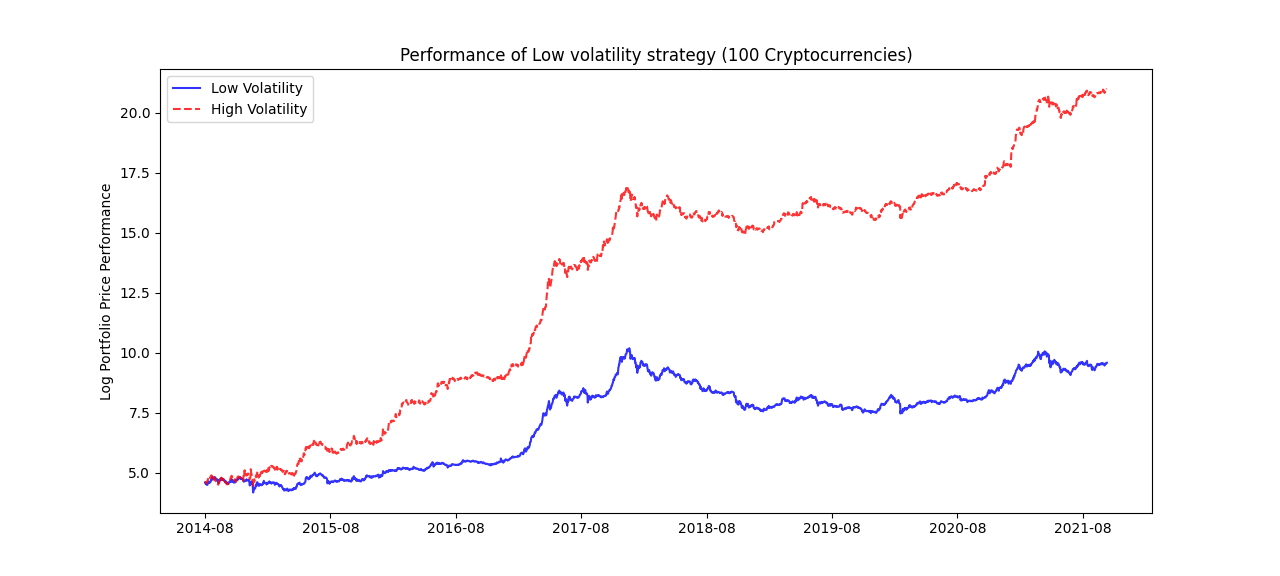
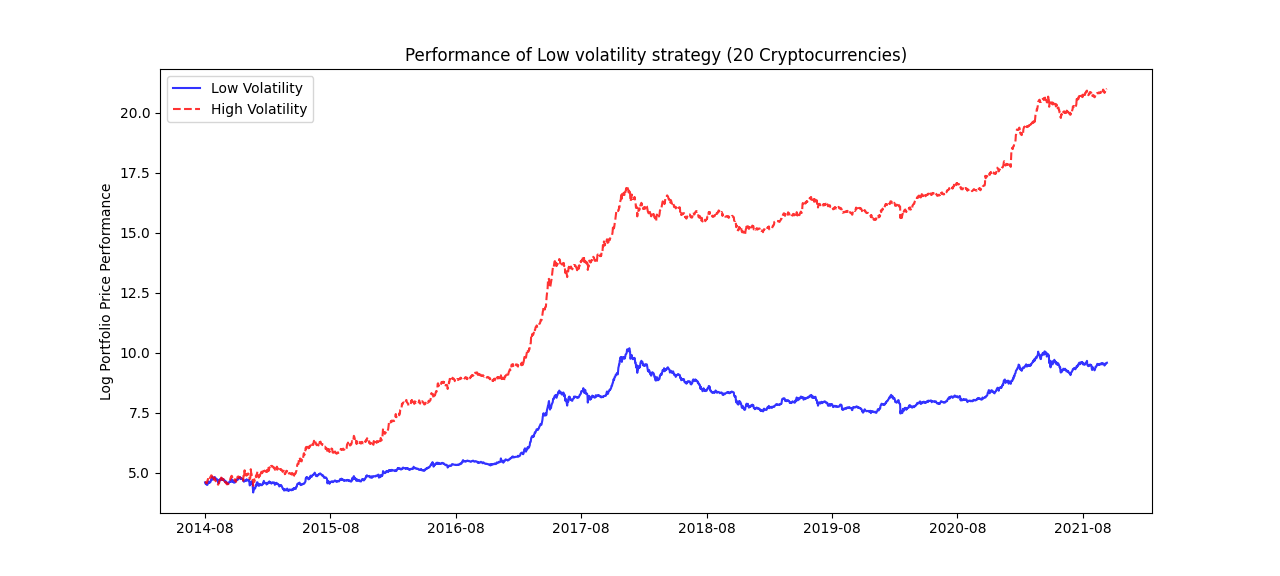
final commit

Changed region(s): [[0.3125, 0.0625, 0.7188, 0.125]]

diff --git a/graph_maker.py b/graph_maker.py
@@ -147,11 +147,14 @@ plt.plot(yHV, "r--", alpha=0.8, label = "High Volatility")
 Xs = X[::K]
 xlabels = pd.to_datetime(X).strftime("%Y-%m")
 xlabels = xlabels[::K]
-plt.title("Performance of Low volatility strategy (100 Cryptocurrencies)")
+plt.title("Performance of Low volatility strategy (20 Cryptocurrencies)")
 plt.xticks(Xs, xlabels)
 plt.legend(loc='upper left')
 plt.ylabel('Log Portfolio Price Performance')
 plt.savefig('graphs/low_vol_20.png', format="png")
+
+## Low / High Volatility graphs ##
+
 
 ## Minimum Variance ##
 

diff --git a/Readme.md b/Readme.md
@@ -128,21 +128,6 @@ python3 dashboard.py
 │                         
 ```
 
-
-## Ideas
-
-- Li et Yi, Toward a Factor Structure in Crypto Asset Returns => seems to have a low vol anomaly
-- https://coinmarketexpert.com/how-we-developed-a-cryptocurrency-portfolio-that-beats-bitcoin/
-- https://www.econstor.eu/bitstream/10419/158007/1/887992064.pdf
-- https://www.solactive.com/wp-content/uploads/2019/04/Solactive-Index-Guideline-CMC200.pdf
-- https://iranarze.ir/wp-content/uploads/2021/01/11310-English-IranArze.pdf
-- https://www.sciencedirect.com/science/article/pii/S2405844021022714 (Factor investing: A stock selection methodology for the European equity market)
-- https://dune.xyz/rchen8/defi-users-over-time, for choosing the low vol split
-- https://brightnode.io/history-of-makerdao-project/, history of makerdao
-- https://compound.finance/documents/Compound.Whitepaper.pdf, compound whitepaper
-
-
-
 ## Authors
 
 * Dimitri André : dimitri.andre@unil.ch
